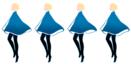
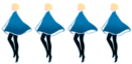
Added idle animation and fixed falling

diff --git a/core/src/edu/cornell/gdiac/somniphobia/game/controllers/PlatformController.java b/core/src/edu/cornell/gdiac/somniphobia/game/controllers/PlatformController.java
@@ -565,13 +565,13 @@ public class PlatformController extends WorldController {
 		allTexture = new TextureRegion(directory.getEntry( "shared:all", Texture.class ));
 
 		// Base models
-		somniTexture  = new TextureRegion(directory.getEntry("platform:somni_stand",Texture.class));
+		somniTexture  = new TextureRegion(directory.getEntry("platform:Somni_Idle",Texture.class));
 		somniWalkTexture = new TextureRegion(directory.getEntry("platform:somni_walk",Texture.class));
 		somniDashSideTexture = new TextureRegion(directory.getEntry("platform:Somni_Jump_Dash",Texture.class));
 		somniDashUpTexture = new TextureRegion(directory.getEntry("platform:Somni_Jump_Dash",Texture.class));
 		somniFallTexture = new TextureRegion(directory.getEntry("platform:Somni_Falling", Texture.class));
 
-		phobiaTexture = new TextureRegion(directory.getEntry("platform:phobia_stand",Texture.class));
+		phobiaTexture = new TextureRegion(directory.getEntry("platform:Phobia_Idle",Texture.class));
 		phobiaWalkTexture = new TextureRegion(directory.getEntry("platform:phobia_walk",Texture.class));
 		phobiaDashSideTexture = new TextureRegion(directory.getEntry("platform:Phobia_Jump_Dash",Texture.class));
 		phobiaDashUpTexture = new TextureRegion(directory.getEntry("platform:Phobia_Stand_Jump",Texture.class));
